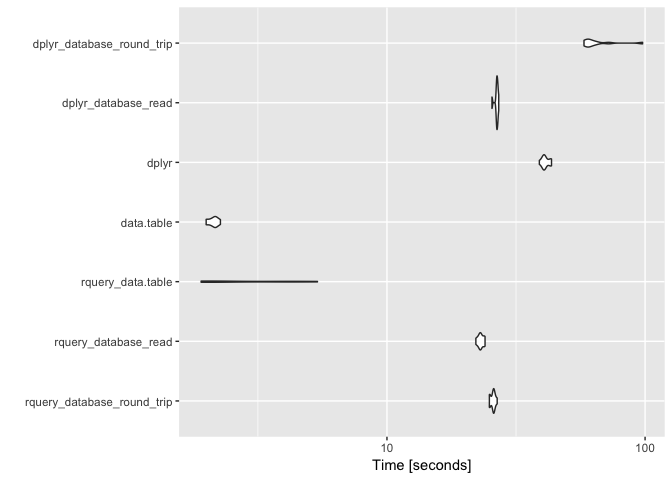
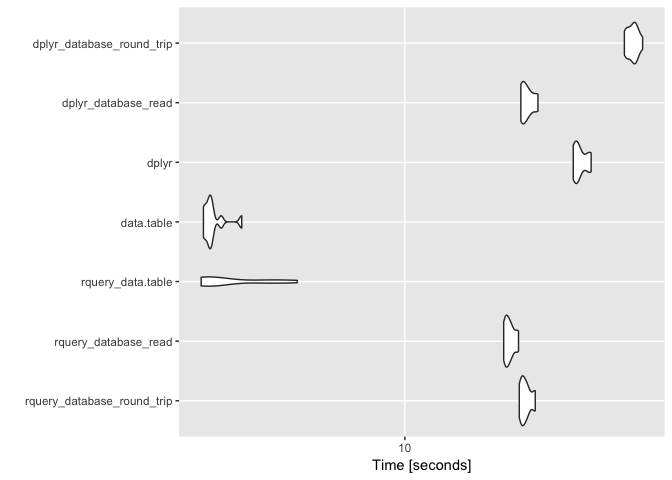
add diagram re-run

diff --git a/extras/data_table.md b/extras/data_table.md
@@ -1,9 +1,9 @@
 data.table backend for rquery
 ================
 John Mount, Win-Vector LLC
-05/30/2018
+05/31/2018
 
-We can work an example similar to the [`rquery`](https://winvector.github.io/rquery/) [example](https://winvector.github.io/rquery/index.html) using a [`data.table`](http://r-datatable.com/) back-end ([`qdatatable`](https://github.com/WinVector/qdatatable)).
+We can work an example similar to the [`rquery`](https://winvector.github.io/rquery/) [example](https://winvector.github.io/rquery/index.html) using a [`data.table`](http://r-datatable.com/) back-end ([`rqdatatable`](https://github.com/WinVector/rqdatatable)).
 
 ``` r
 library("ggplot2")
@@ -24,8 +24,8 @@ library("dplyr")
 
 ``` r
 library("dtplyr")
-# https://github.com/WinVector/qdatatable
-library("qdatatable") # devtools::install.packages("WinVector/qdatatable")
+# https://github.com/WinVector/rqdatatable
+library("rqdatatable") # devtools::install.packages("WinVector/rqdatatable")
 ```
 
     ## Loading required package: rquery
@@ -127,6 +127,14 @@ cat(format(rquery_pipeline))
      select_columns(.,
        subjectID, diagnosis, probability) %.>%
      orderby(., subjectID)
+
+``` r
+rquery_pipeline %.>%
+  op_diagram(.) %.>% 
+  DiagrammeR::grViz(.)
+```
+
+![](data_table_files/figure-markdown_github/printrqueryp-1.png)
 
 Execute `rquery` pipeline using `data.table` as the implementation.
 
@@ -344,21 +352,21 @@ print(timings)
 
     ## Unit: seconds
     ##                        expr       min        lq      mean    median
-    ##  rquery_database_round_trip 24.932563 25.112882 25.740986 25.862333
-    ##        rquery_database_read 22.101619 22.770426 23.108142 23.071979
-    ##           rquery_data.table  1.906723  2.044988  2.973002  2.153297
-    ##                  data.table  1.993420  2.070655  2.128269  2.148503
-    ##                       dplyr 38.938460 40.362938 41.197011 40.790600
-    ##         dplyr_database_read 25.516189 26.585125 26.630053 26.701492
-    ##   dplyr_database_round_trip 57.998092 59.904662 65.661184 60.836108
+    ##  rquery_database_round_trip 25.073923 25.511922 26.476737 26.213450
+    ##        rquery_database_read 22.122548 22.449000 23.217000 22.976704
+    ##           rquery_data.table  1.948125  2.017964  2.546166  2.096369
+    ##                  data.table  1.983775  2.032302  2.149564  2.088585
+    ##                       dplyr 38.683119 39.352977 40.995207 40.055997
+    ##         dplyr_database_read 25.390203 25.734740 26.776651 26.391443
+    ##   dplyr_database_round_trip 58.310197 59.455975 62.334416 62.846960
     ##         uq       max neval
-    ##  25.938123 26.732262    10
-    ##  23.724803 23.988663    10
-    ##   4.137149  5.379728    10
-    ##   2.178044  2.263854    10
-    ##  42.556378 43.403159    10
-    ##  26.881072 27.102760    10
-    ##  65.096731 97.828567    10
+    ##  27.068791 28.504425    10
+    ##  23.615097 24.916866    10
+    ##   3.181604  4.215407    10
+    ##   2.131426  2.698049    10
+    ##  43.501381 44.644376    10
+    ##  27.624446 29.125548    10
+    ##  64.142818 67.516631    10
 
 ``` r
 # summarize by hand using rquery database connector
@@ -374,13 +382,13 @@ knitr::kable(means)
 
 | expr                          |   mean\_time|
 |:------------------------------|------------:|
-| data.table                    |   2128269296|
-| rquery\_data.table            |   2973002074|
-| rquery\_database\_read        |  23108141583|
-| rquery\_database\_round\_trip |  25740986002|
-| dplyr\_database\_read         |  26630052963|
-| dplyr                         |  41197010592|
-| dplyr\_database\_round\_trip  |  65661183543|
+| data.table                    |   2149564386|
+| rquery\_data.table            |   2546165543|
+| rquery\_database\_read        |  23216999521|
+| rquery\_database\_round\_trip |  26476736507|
+| dplyr\_database\_read         |  26776650863|
+| dplyr                         |  40995207251|
+| dplyr\_database\_round\_trip  |  62334416223|
 
 ``` r
 autoplot(timings)

diff --git a/extras/SparkR.md b/extras/SparkR.md
@@ -15,7 +15,7 @@ library("rquery")
 print(db_hdl)
 ```
 
-    ## [1] "rquery_db_info(is_dbi=FALSE, SparkR, <environment: 0x7fe22ed8b5c0>)"
+    ## [1] "rquery_db_info(is_dbi=FALSE, SparkR, <environment: 0x7fc235432e68>)"
 
 ``` r
 print(test_df)
